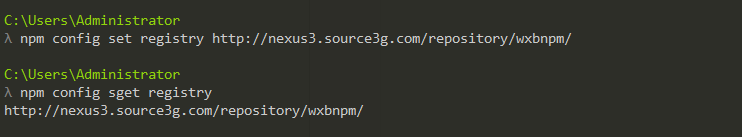
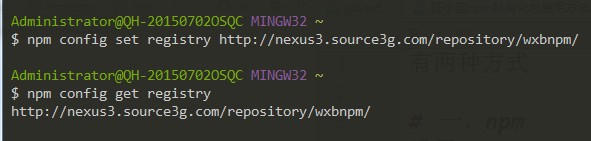
docs:git常用命令、nvm、私有化修正

Changed region(s): [[0.0, 0.0, 0.9746, 1.0], [0.9746, 0.2336, 1.0, 0.2628]]

diff --git a/版本管理/nvm.md b/版本管理/nvm.md
@@ -39,7 +39,7 @@ nvm ls-remote
 ## 切换nodejs版本
 
 ```
-nvm use 8.9.4
+nvm use v8.9.4
 ```
 
 ## 安装nodejs版本
@@ -47,7 +47,7 @@ nvm use 8.9.4
 
 ### 安装10.15.3
 ```
-nvm install 10.15.3
+nvm install v10.15.3
 ```
 
 
@@ -81,10 +81,10 @@ yarn config set registry http://registry.npm.taobao.org/
 ## nodejs常用版本
 
 ```
-8.9.4
-10.15.3
-11.10.1
-12.13.0
+v8.9.4
+v10.15.3
+v11.10.1
+v12.13.0
 ```
 
 ps: 用nvm 安装node会自带npm，如果没有npm, 把当前版本删除了再安装

diff --git a/版本管理/git.md b/版本管理/git.md
@@ -27,6 +27,38 @@ git commit -m feat:改动
 git push
 ```
 
+## 用于显示工作目录和暂存区的状态
+```
+git status
+```
+
+## 创建分支
+```
+git checkout -b feature-v1
+```
+
+## 切换分支
+```
+git checkout master
+
+```
+
+## 删除分支
+```
+git branch -d feature-v1
+```
+## 查看远程分支
+```
+git branch -r 
+```
+
+## 将远程主机的最新内容拉到本地
+
+```
+git fetch origin master
+
+```
+
 # 二、message规范
 
 类型|说明

diff --git a/版本管理/旺小宝npm私有化包使用方法.md b/版本管理/旺小宝npm私有化包使用方法.md
@@ -8,7 +8,7 @@ npm config set registry http://nexus3.source3g.com/repository/wxbnpm/
 查看 
 
 ```
-npm config sget registry
+npm config get registry
 ```
 ![avatar](img/11.png)
 
